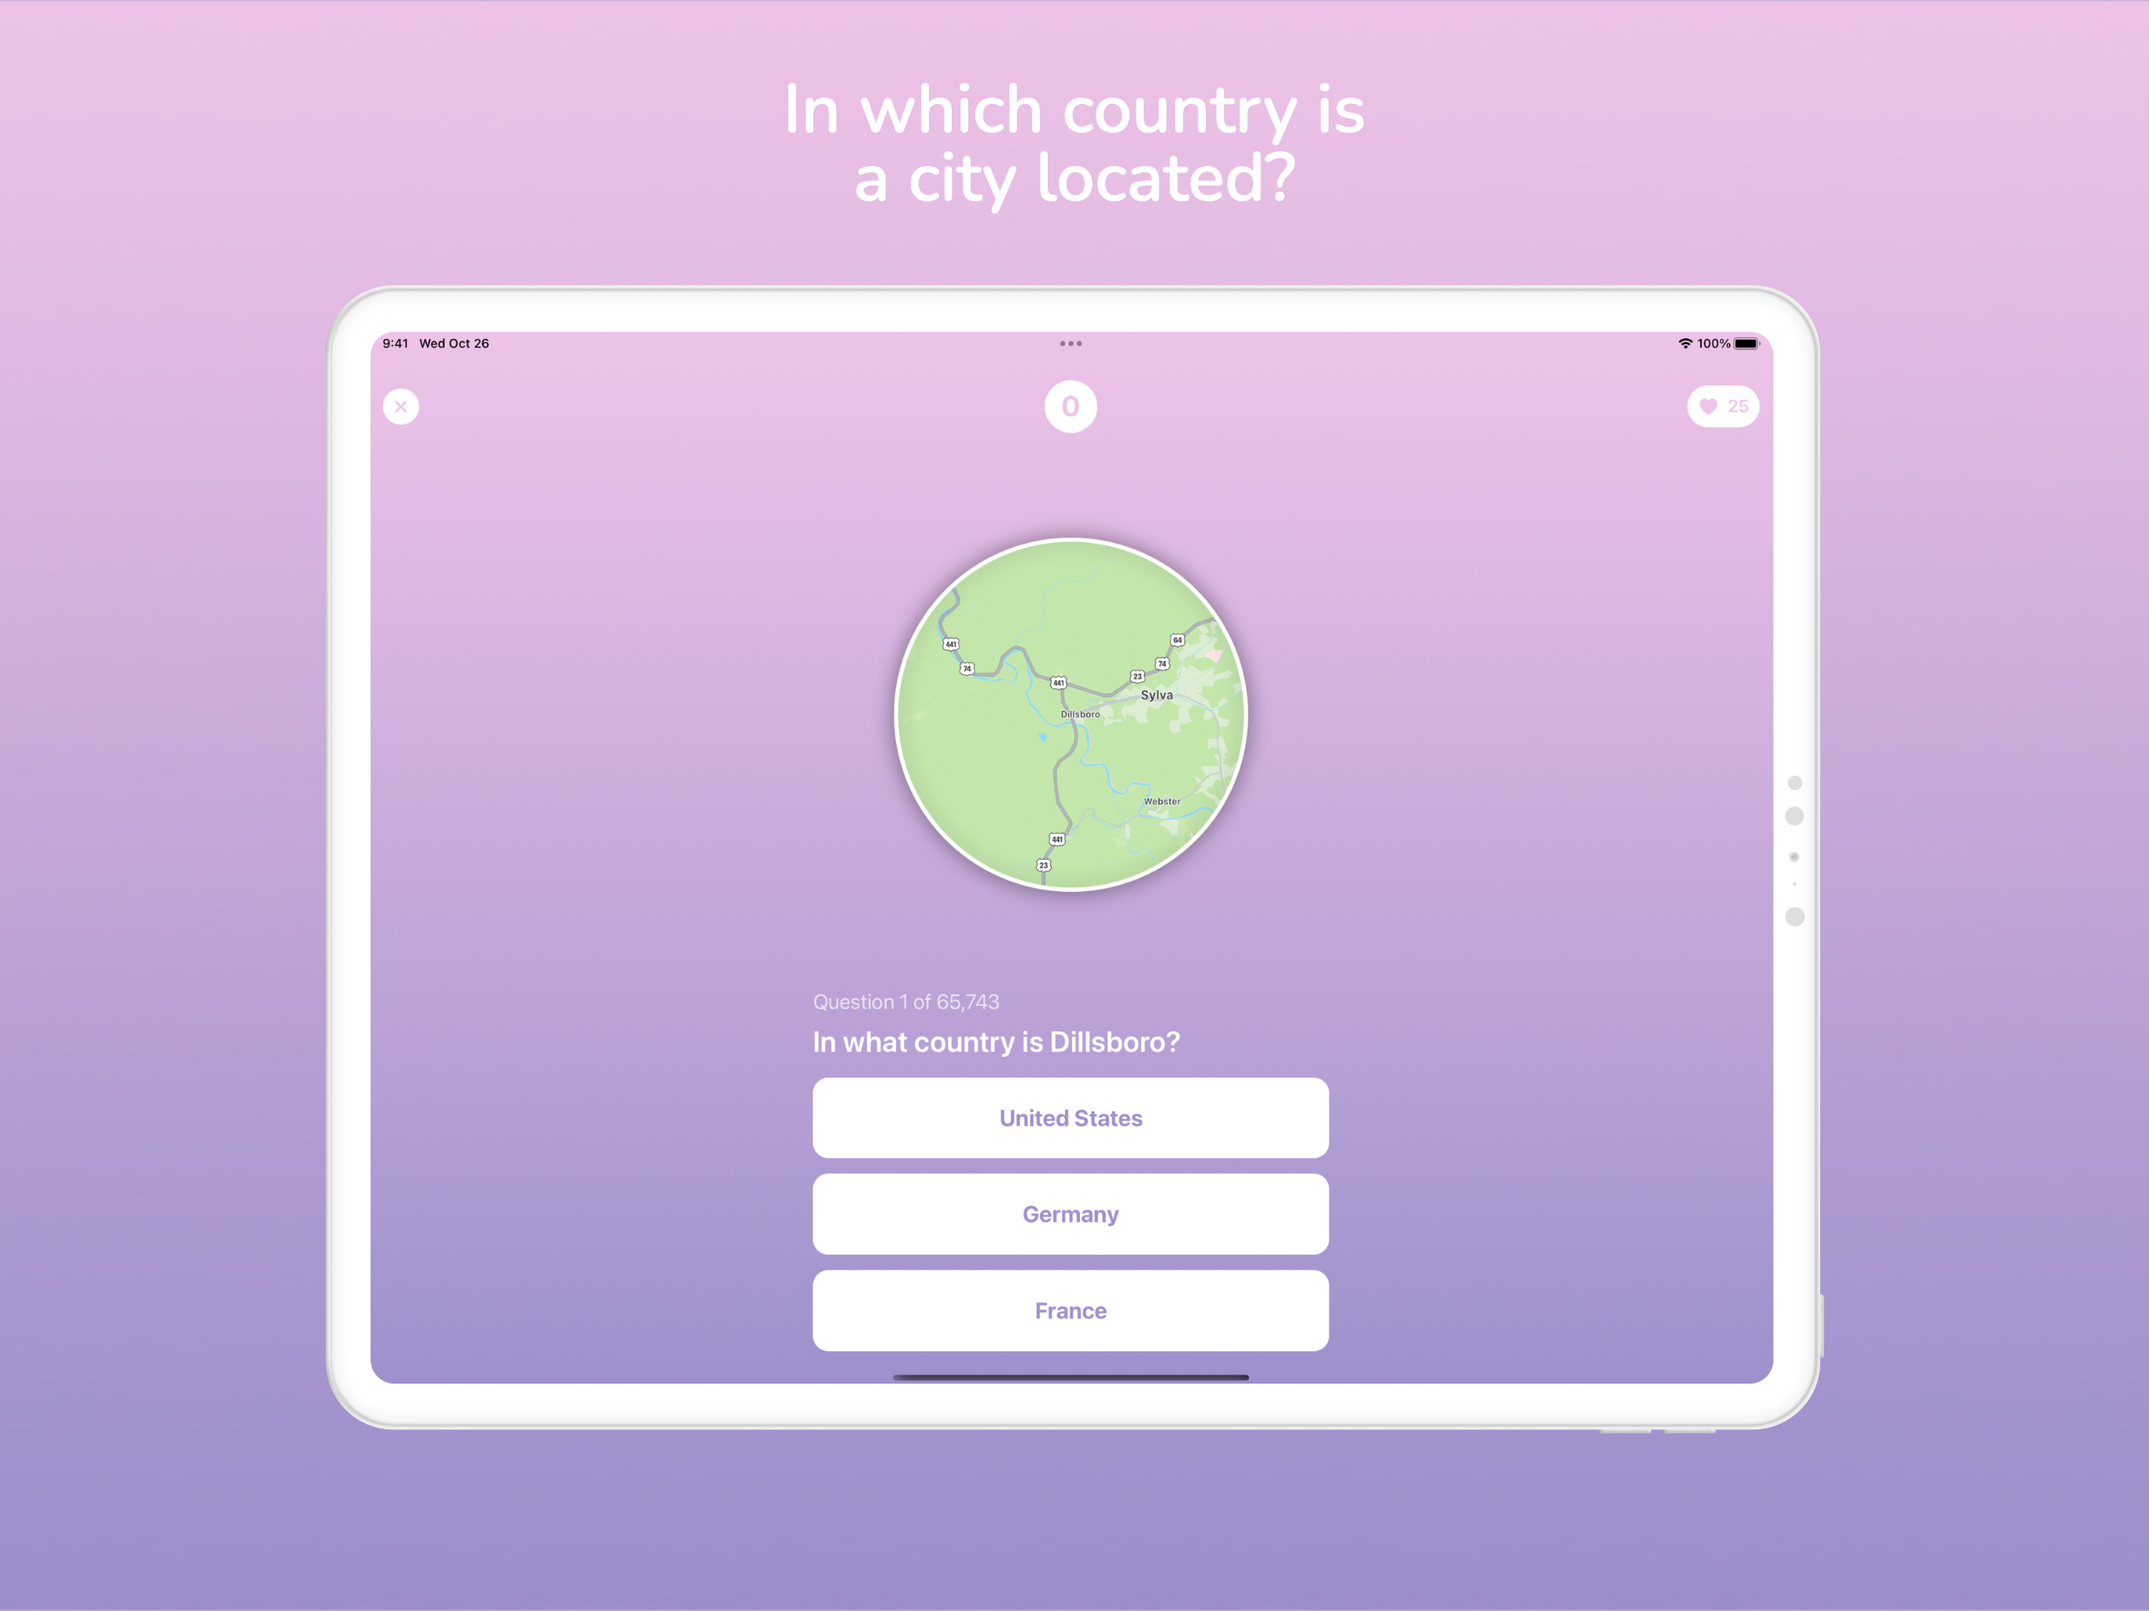
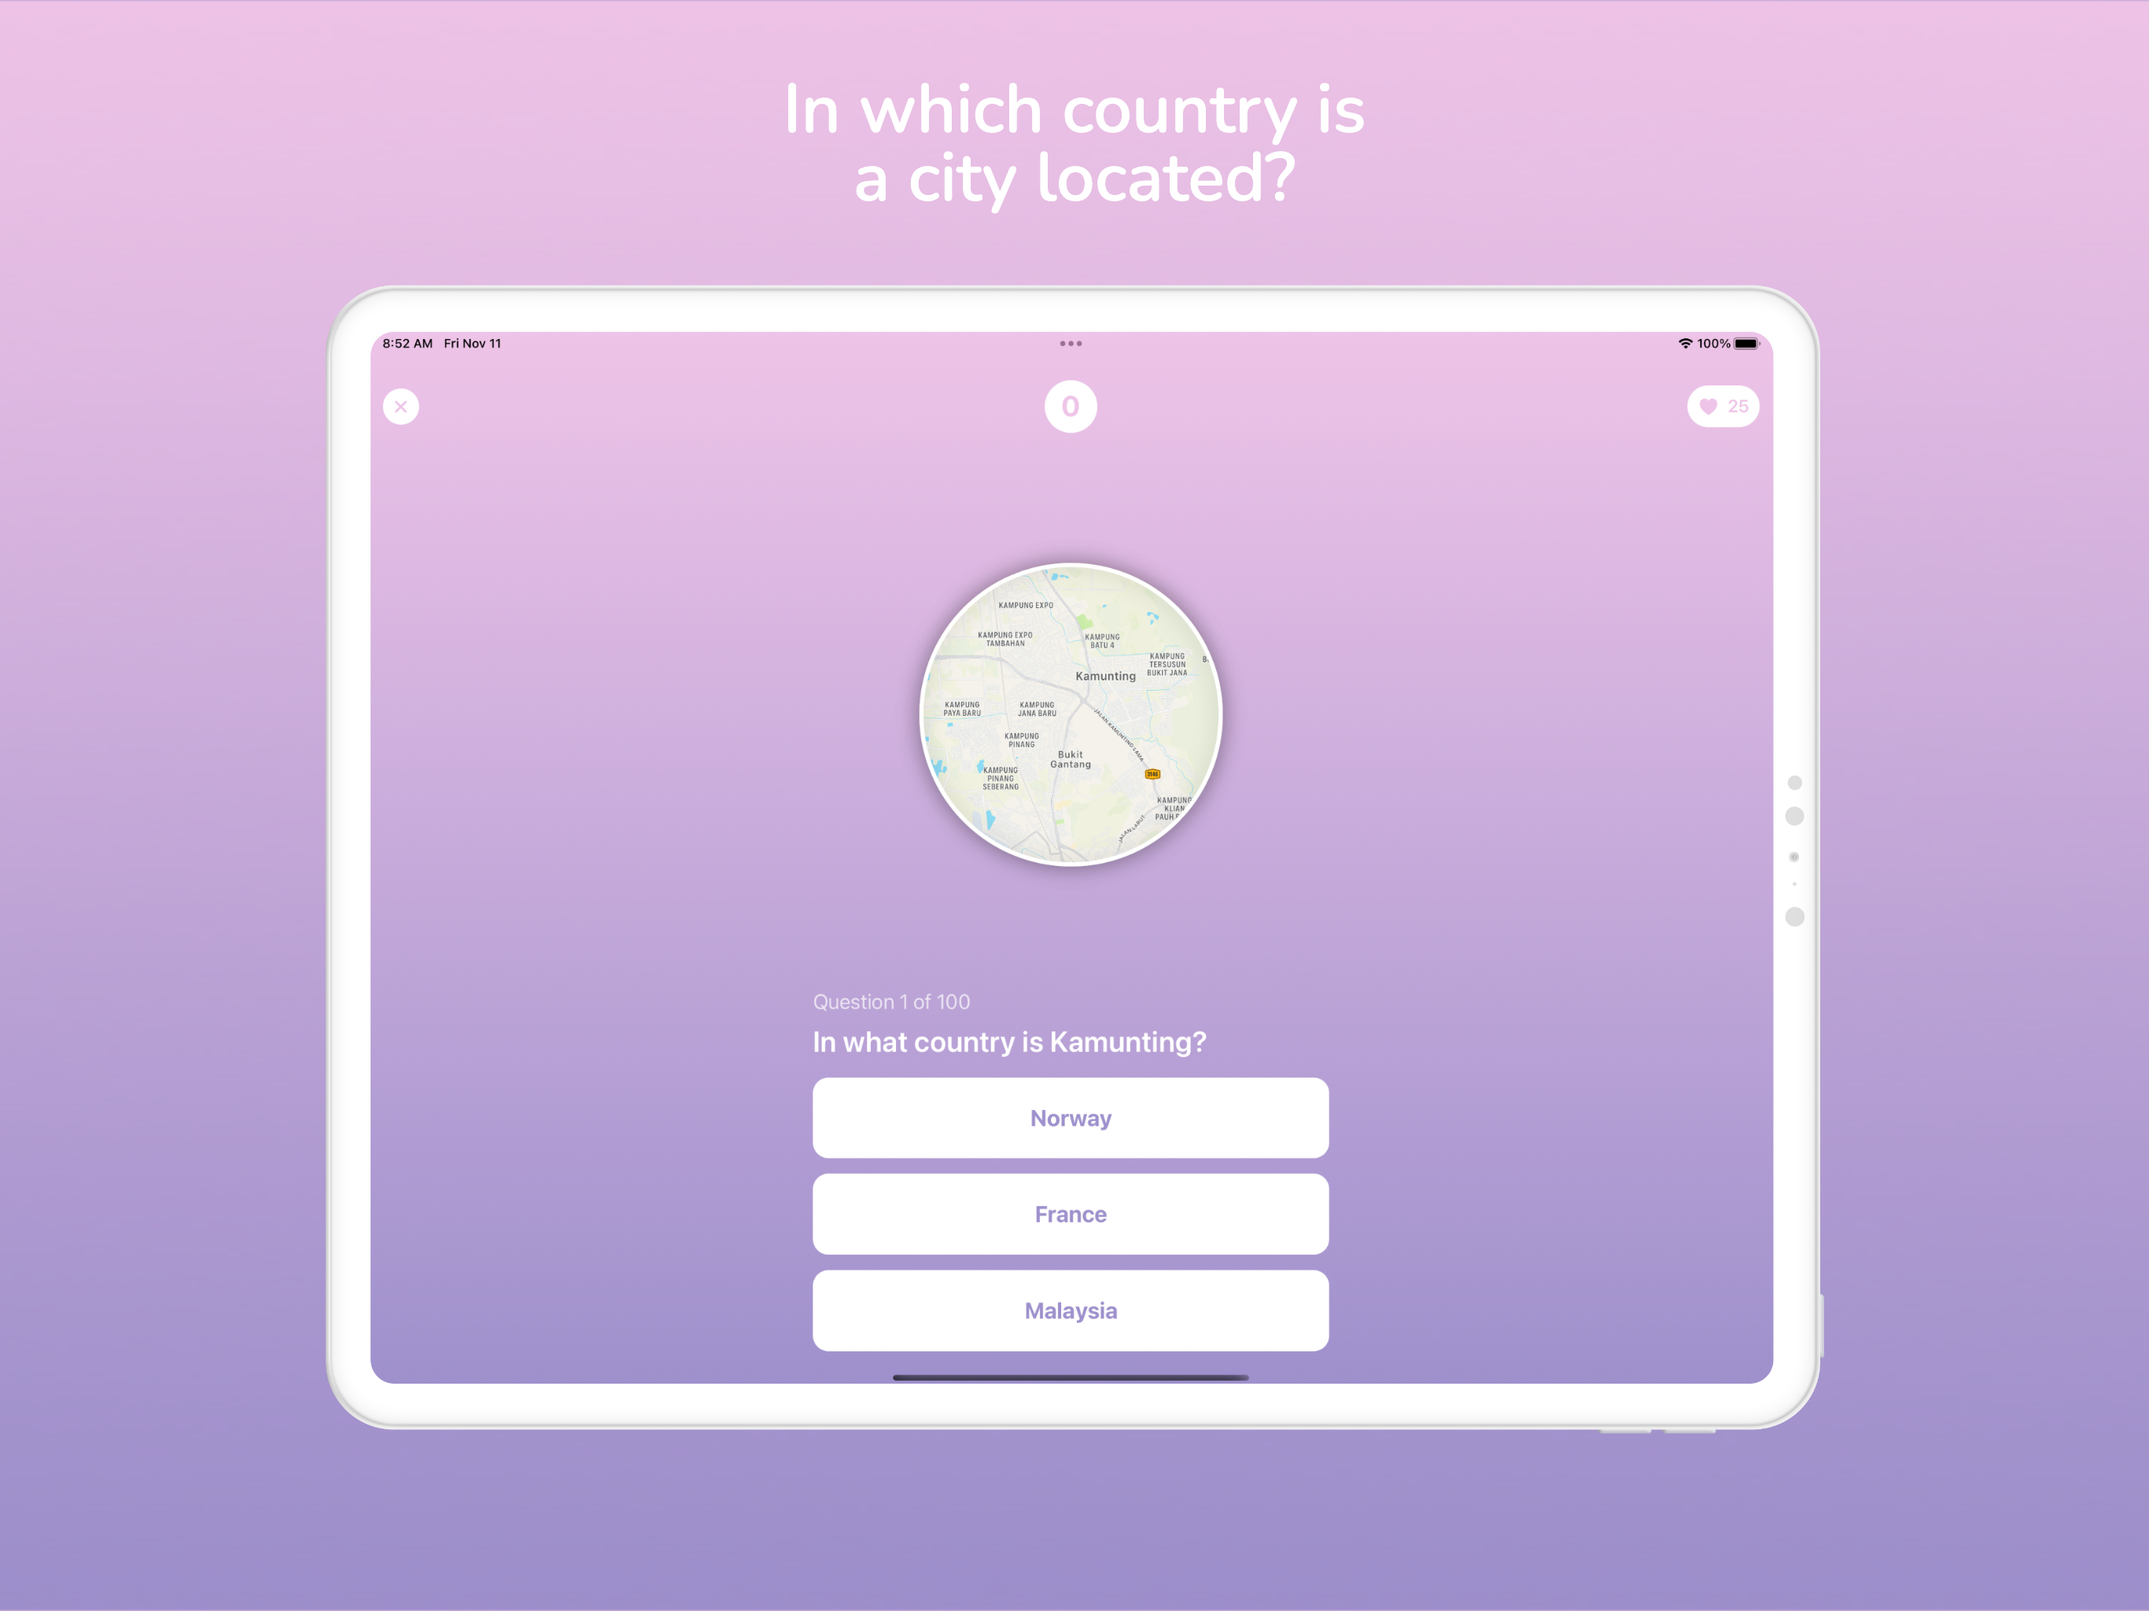
refactor controllers

diff --git a/GeoQuiz/Controllers/CityGameController.swift b/GeoQuiz/Controllers/CityGameController.swift
@@ -8,30 +8,27 @@
 import Foundation
 import AVFAudio
 
-class CityGameController: Game, ObservableObject {
+@MainActor class CityGameController: Game, ObservableObject {
     
-    // Define type of generics
+    // Define generic type
     typealias T = CityModel.City
     
+    // Game
     var data: [String: T]
     var dataAsked = [String: T]()
     
-    // Data
-    @Published var correctAnswer = (
-        key: String(),
-        value: T(country: String(), lat: Double(), lon: Double())
-    )
-    
-    // User
     @Published var userChoices = [String: T]()
     @Published var userScore = 0
     @Published var userLives = 3
+    
+    @Published var correctAnswer = (key: String(), value: T(country: String(), lat: Double(), lon: Double()))
     @Published var correctAnswers = [String: T]()
     @Published var wrongAnswers = [String: T]()
     
     // Alerts
     @Published var alertTitle = String()
     @Published var alertMessage = String()
+    
     @Published var showingEndGameAlert = false
     @Published var showingWrongAnswerAlert = false
     @Published var showingExitGameAlert = false
@@ -45,11 +42,16 @@ class CityGameController: Game, ObservableObject {
     
     init() {
         let data: CityModel = Bundle.main.decode("cities.json")
-        let shuffledCities = data.cities.shuffled().prefix(100)
-        
+        let shuffledCities = data.cities.shuffled()
         var cities = [String: T]()
-        for shuffledCity in shuffledCities {
-            cities[shuffledCity.key] = shuffledCity.value
+        
+        for _ in 1...10 {
+            let countryNames = cities.map { $0.value.country }
+            let city = shuffledCities.first(where: {
+                !countryNames.contains($0.value.country)
+            })!
+            
+            cities[city.key] = city.value
         }
         
         self.data = cities
@@ -63,54 +65,8 @@ class CityGameController: Game, ObservableObject {
             }
         }
         
-        askQuestion {
-            selector()
-        }
+        ask()
     }
 }
 
-extension CityGameController {
-    func selector() {
-        
-        // Get random choices
-        var userChoices = [String: T]()
-        
-        while userChoices.count < 2 {
-            if let choice = data.randomElement() {
-                let userChoicesCountry = userChoices.map { $0.value.country }
-                
-                if !userChoicesCountry.contains(choice.value.country) {
-                    userChoices[choice.key] = choice.value
-                }
-            } else {
-                fatalError("Couldn't get a random value from data")
-            }
-        }
-        
-        // Get correct answer
-        let randomCityKeys = data.keys.shuffled()
-        let userChoicesCountry = userChoices.map { $0.value.country }
-        
-        let correctCityKey = randomCityKeys.first(where: {
-            !userChoices.keys.contains($0) &&                  // Avoid duplicated cities
-            !dataAsked.keys.contains($0) &&                    // Avoid cities already asked
-            !userChoicesCountry.contains(data[$0]!.country)    // Avoid duplicated country names in userChoices
-        })
-
-        // Unwrap optional
-        if let correctCityKey = correctCityKey {
-            let correctCityValue = data[correctCityKey]!
-            
-            userChoices[correctCityKey] = correctCityValue
-            dataAsked[correctCityKey] = correctCityValue
-            
-            let correctAnswer = (key: correctCityKey, value: correctCityValue)
-            self.correctAnswer = correctAnswer
-        } else {
-            fatalError("Couldn't unwrap optional value")
-        }
-        
-        self.userChoices = userChoices
-    }
-}
 

diff --git a/GeoQuiz/Controllers/GameProtocol+Extension.swift b/GeoQuiz/Controllers/GameProtocol+Extension.swift
@@ -18,7 +18,7 @@ public enum GameType: Int16, CaseIterable {
     case guessThePopulation
 }
 
-protocol Game: ObservableObject {
+@MainActor protocol Game: ObservableObject {
     
     // Define generic type
     associatedtype T: Equatable
@@ -26,18 +26,19 @@ protocol Game: ObservableObject {
     // Game
     var data: [String: T] { get set}
     var dataAsked: [String: T] { get set }
-    var correctAnswer: (key: String, value: T) { get set }
     
-    // User
     var userChoices: [String: T] { get set }
     var userScore: Int { get set }
     var userLives: Int { get set }
+    
+    var correctAnswer: (key: String, value: T) { get set }
     var correctAnswers: [String: T] { get set }
     var wrongAnswers: [String: T] { get set }
     
     // Alerts
     var alertTitle: String { get set }
     var alertMessage: String { get set }
+    
     var showingEndGameAlert: Bool { get set }
     var showingWrongAnswerAlert: Bool { get set }
     var showingExitGameAlert: Bool { get set }
@@ -48,8 +49,6 @@ protocol Game: ObservableObject {
     
     // Sound effects
     var player: AVAudioPlayer? { get set }
-    
-    func selector()
 }
 
 extension Game {
@@ -57,7 +56,8 @@ extension Game {
        dataAsked.count
     }
     
-    func askQuestion(selector: () -> Void) {
+    // MARK: - Ask new question
+    func ask() {
         guard questionCounter < data.count else {
             alertTitle = "⭐ Congratulations ⭐"
             alertMessage = "You completed the game."
@@ -66,10 +66,28 @@ extension Game {
             return
         }
         
-        selector()
+        var userChoices = [String: T]()
+        
+        while userChoices.count < 2 {
+            let choice = data.randomElement()!
+            userChoices[choice.key] = choice.value
+        }
+        
+        let correctKey = data.keys.shuffled().first(where: {
+            !userChoices.keys.contains($0) &&               // Avoid duplicated items
+            !dataAsked.keys.contains($0)                    // Avoid items already asked
+        })!
+        
+        let correctValue = data[correctKey]!
+        
+        userChoices[correctKey] = correctValue
+        dataAsked[correctKey] = correctValue
+        correctAnswer = (key: correctKey, value: correctValue)
+        self.userChoices = userChoices
     }
     
-    func answer(choice: (key: String, value: T), wrongMessage: String, selector: () -> Void) {
+    // MARK: - Answer question
+    func answer(choice: (key: String, value: T), wrongMessage: String) {
         let haptics = HapticsController()
         
         if correctAnswer == choice {
@@ -82,17 +100,15 @@ extension Game {
             }
             
             correctAnswers[correctAnswer.key] = correctAnswer.value
-            askQuestion {
-                selector()
-            }
+            ask()
         } else {
             haptics.error()
             playSound("wrongAnswer")
 
-            withAnimation(.easeIn(duration: 0.5)) {
-                livesScaleAmount += 1
-                userLives -= 1
-            }
+//            withAnimation(.easeIn(duration: 0.5)) {
+//                livesScaleAmount += 1
+//                userLives -= 1
+//            }
             
             wrongAnswers[choice.key] = choice.value
             
@@ -115,6 +131,7 @@ extension Game {
         }
     }
     
+    // MARK: - Save game
     func save(_ gameType: GameType, with moc: NSManagedObjectContext) {
         let playedGame = PlayedGame(context: moc)
 
@@ -131,6 +148,7 @@ extension Game {
         }
     }
     
+    // MARK: - Play sound effect
     private func playSound(_ filename: String) {
         let user = UserController()
         

diff --git a/GeoQuiz/Controllers/CountryGameController.swift b/GeoQuiz/Controllers/CountryGameController.swift
@@ -16,7 +16,6 @@ class CountryGameController: Game, ObservableObject {
     var data: [String: T]
     var dataAsked = [String: T]()
     
-    // Data
     @Published var correctAnswer = (
         key: String(),
         value: T(flag: String(), currency: String(), population: Int(), capital: String())
@@ -45,14 +44,16 @@ class CountryGameController: Game, ObservableObject {
     
     init() {
         let data: CountryModel = Bundle.main.decode("countries.json")
-        let shuffledCountries = data.countries.shuffled().prefix(100)
-        
+        let shuffledCountries = data.countries.shuffled().prefix(5)
         var countries = [String: T]()
+        
         for shuffledCountry in shuffledCountries {
             countries[shuffledCountry.key] = shuffledCountry.value
         }
         
         self.data = countries
+        
+        print(countries)
         
         let user = UserController()
         userLives = user.data.numberOfLives
@@ -63,47 +64,6 @@ class CountryGameController: Game, ObservableObject {
             }
         }
         
-        askQuestion {
-            selector()
-        }
-    }
-}
-
-extension CountryGameController {
-    func selector() {
-        
-        // Get random choices
-        var userChoices = [String: T]()
-        
-        while userChoices.count < 2 {
-            if let choice = data.randomElement() {
-                userChoices[choice.key] = choice.value
-            } else {
-                fatalError("Couldn't get a random value from data")
-            }
-        }
-        
-        // Get correct answer
-        let randomCountryKeys = data.keys.shuffled()
-        
-        let correctCountryKey = randomCountryKeys.first(where: {
-            !userChoices.keys.contains($0) &&   // Avoid duplicated countries
-            !dataAsked.keys.contains($0)        // Avoid countries already asked
-        })
-        
-        // Unwrap correct answer
-        if let correctCountryKey = correctCountryKey {
-            let correctCountryValue = data[correctCountryKey]!
-            
-            userChoices[correctCountryKey] = correctCountryValue
-            dataAsked[correctCountryKey] = correctCountryValue
-            
-            let correctAnswer = (key: correctCountryKey, value: correctCountryValue)
-            self.correctAnswer = correctAnswer
-        } else {
-            fatalError("Couldn't unwrap optional value")
-        }
-        
-        self.userChoices = userChoices
+        ask()
     }
 }

diff --git a/GeoQuiz/GuessTheCountryView.swift b/GeoQuiz/GuessTheCountryView.swift
@@ -48,9 +48,7 @@ struct GuessTheCountryView: View, GameView {
                                     gameController.answer(
                                         choice: (key: cityName, value: gameController.data[cityName]!),
                                         wrongMessage: "\(gameController.correctAnswer.key) is located in \(gameController.correctAnswer.value.country)"
-                                    ) {
-                                        gameController.selector()
-                                    }
+                                    )
                                 } label: {
                                     AnswerButton(
                                         name: gameController.data[cityName]!.country,

diff --git a/GeoQuiz/GuessThePopulationView.swift b/GeoQuiz/GuessThePopulationView.swift
@@ -65,9 +65,7 @@ struct GuessThePopulationView: View, GameView {
                                     gameController.answer(
                                         choice: (key: countryName, value: gameController.data[countryName]!),
                                         wrongMessage: "That's the population of \(countryName)"
-                                    ) {
-                                        gameController.selector()
-                                    }
+                                    )
                                 } label: {
                                     let population = gameController.data[countryName]!.population
                                     AnswerButton(

diff --git a/GeoQuiz/GuessTheCapitalView.swift b/GeoQuiz/GuessTheCapitalView.swift
@@ -65,9 +65,7 @@ struct GuessTheCapitalView: View, GameView {
                                     gameController.answer(
                                         choice: (key: countryName, value: gameController.data[countryName]!),
                                         wrongMessage: "That's the capital of \(countryName)"
-                                    ) {
-                                        gameController.selector()
-                                    }
+                                    )
                                 } label: {
                                     AnswerButton(
                                         name: gameController.data[countryName]!.capital,

diff --git a/GeoQuiz/GuessTheFlagView.swift b/GeoQuiz/GuessTheFlagView.swift
@@ -48,9 +48,7 @@ struct GuessTheFlagView: View, GameView {
                                 gameController.answer(
                                     choice: (key: countryName, value: gameController.data[countryName]!),
                                     wrongMessage: "That's the flag of \(countryName)"
-                                ) {
-                                    gameController.selector()
-                                }
+                                )
                             } label: {
                                 
                                 /*

diff --git a/GeoQuiz/Helpers/GameAlertsModifier.swift b/GeoQuiz/Helpers/GameAlertsModifier.swift
@@ -20,9 +20,7 @@ struct GameAlertsModifier<T: Game>: ViewModifier {
         content
             .alert(gameController.alertTitle, isPresented: $gameController.showingWrongAnswerAlert) {
                 Button("Continue", role: .cancel) {
-                    gameController.askQuestion {
-                        gameController.selector()
-                    }
+                    gameController.ask()
                 }
             } message: {
                 Text(gameController.alertMessage)
